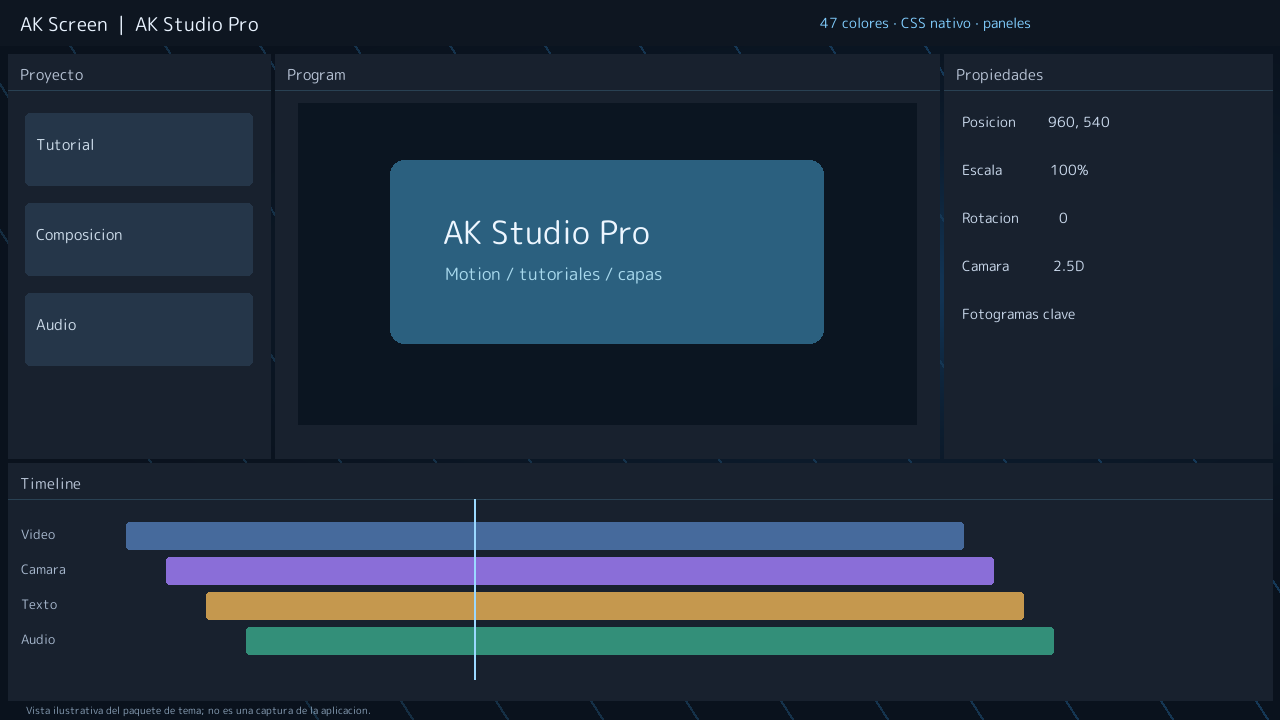
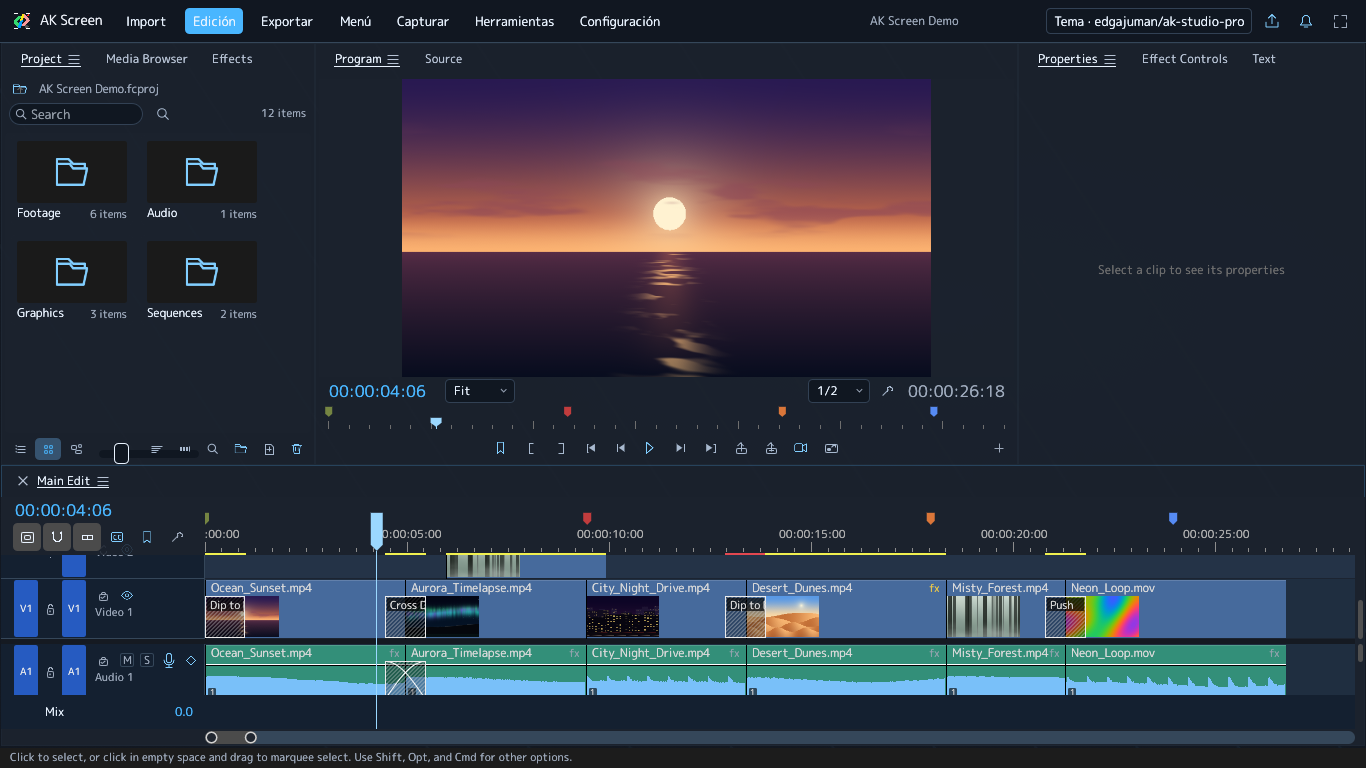
Show AK Studio Pro in the editor and preserve exact font attribution

diff --git a/README.md b/README.md
@@ -6,9 +6,9 @@ Temas comunitarios revisados para **AK Screen**. Cada autor conserva sus paquete
 
 ## AK Studio Pro · ejemplo avanzado
 
-![Vista ilustrativa de AK Studio Pro](themes/edgajuman/ak-studio-pro/preview.png)
+![AK Studio Pro en AK Screen 2.2](themes/edgajuman/ak-studio-pro/preview.png)
 
-[AK Studio Pro](themes/edgajuman/ak-studio-pro/) requiere AK Screen 2.2.0. Incluye 47 colores, 11 métricas, disposición propia de paneles, hoja CSS nativa, 24 SVG originales, fuente con licencia, fondo WebP y carga GIF animada. La imagen anterior es una ilustración del paquete; las imágenes de 2.1 que siguen son capturas reales.
+[AK Studio Pro](themes/edgajuman/ak-studio-pro/) requiere AK Screen 2.2.0. Incluye 47 colores, 11 métricas, disposición propia de paneles, hoja CSS nativa, 24 SVG originales, fuente con licencia, fondo WebP y carga GIF animada. La imagen anterior es una captura real de AK Screen 2.2; las imágenes siguientes muestran los temas en 2.1.
 
 ## Temas disponibles
 
@@ -25,7 +25,7 @@ Las vistas previas de Sakura Pulse y Aurora Glass muestran capturas reales de AK
 
 ## Instalar
 
-En AK Screen 2.1 o posterior: **Temas → Catálogo → Actualizar → Instalar y aplicar**. Puedes ver la imagen de vista previa antes de instalar. La app instala el paquete completo en la carpeta local de temas que tenga configurada cada usuario, conserva sus componentes y verifica tamaño y SHA-256. La ubicación se obtiene de la carpeta Documentos del usuario que ejecuta la app en su propio equipo; nunca se usa la ruta personal del creador. Puedes cambiarla desde Configuración. Los temas instalados funcionan sin conexión.
+En AK Screen 2.2: **Configuración → Temas y catálogo → Actualizar → Instalar y aplicar**. En 2.1, abre **Temas → Catálogo**. Puedes ver la imagen de vista previa antes de instalar. La app instala el paquete completo en la carpeta local de temas que tenga configurada cada usuario, conserva sus componentes y verifica tamaño y SHA-256. La ubicación se obtiene de la carpeta Documentos del usuario que ejecuta la app en su propio equipo; nunca se usa la ruta personal del creador. Puedes cambiarla desde Configuración. Los temas instalados funcionan sin conexión.
 
 **En este repositorio de GitHub**, los archivos se organizan en `themes/autor/tema/`. Esa es la estructura que debes usar al crear tu fork o pull request; no debes crear carpetas Documentos dentro del repositorio.
 

diff --git a/themes/edgajuman/ak-studio-pro/info.md b/themes/edgajuman/ak-studio-pro/info.md
@@ -2,10 +2,10 @@
 
 Para AK Screen 2.2.0 o posterior. Incluye todos los tipos de personalizacion nativa: 47 colores, 11 metricas, disposicion de paneles, hoja CSS, colores de clips y recursos, iconos SVG, fuente local, fondo WebP y splash GIF. Los iconos restantes conservan el dibujo nativo del editor.
 
-Instala desde Temas → Catalogo → Actualizar → AK Studio Pro → Instalar y aplicar. Cada PC guarda el paquete en su propia carpeta de temas. Ajusta la opacidad del fondo y duracion de carga desde Configuracion → Temas y apariencia; estas preferencias son del usuario.
+Instala desde Configuración → Temas y apariencia → Catálogo → Actualizar → AK Studio Pro → Instalar y aplicar. Cada PC guarda el paquete en su propia carpeta de temas. Ajusta la opacidad del fondo y duracion de carga desde Configuracion → Temas y apariencia; estas preferencias son del usuario.
 
 Para crear una variante, cambia id, nombre y autor; edita theme.json/editor.css, aporta una vista previa y envia un pull request. Los hashes se generan automaticamente. Las fuentes solo se usan dentro del editor.
 
-La vista previa es una ilustracion original del diseño, no una captura de la aplicacion. Los fondos, dibujos, CSS y layout son obra original de AK Screen bajo MIT OR Apache-2.0. Fuente M PLUS Rounded 1c: M+ FONTS PROJECT, SIL OFL 1.1, conservada sin cambios de Sakura Pulse con su licencia completa.
+La vista previa es una captura real de AK Screen 2.2 con el tema aplicado y medios de demostración generados por la aplicación. Los fondos, dibujos, CSS y layout son obra original de AK Screen bajo MIT OR Apache-2.0. Fuente M PLUS Rounded 1c: The Rounded M+ Project Authors, SIL OFL 1.1, conservada sin cambios de Sakura Pulse con su licencia completa.
 
 El CSS usa selectores nativos y valores admitidos. No ejecuta scripts, no inserta herramientas ni modifica los videos exportados.
